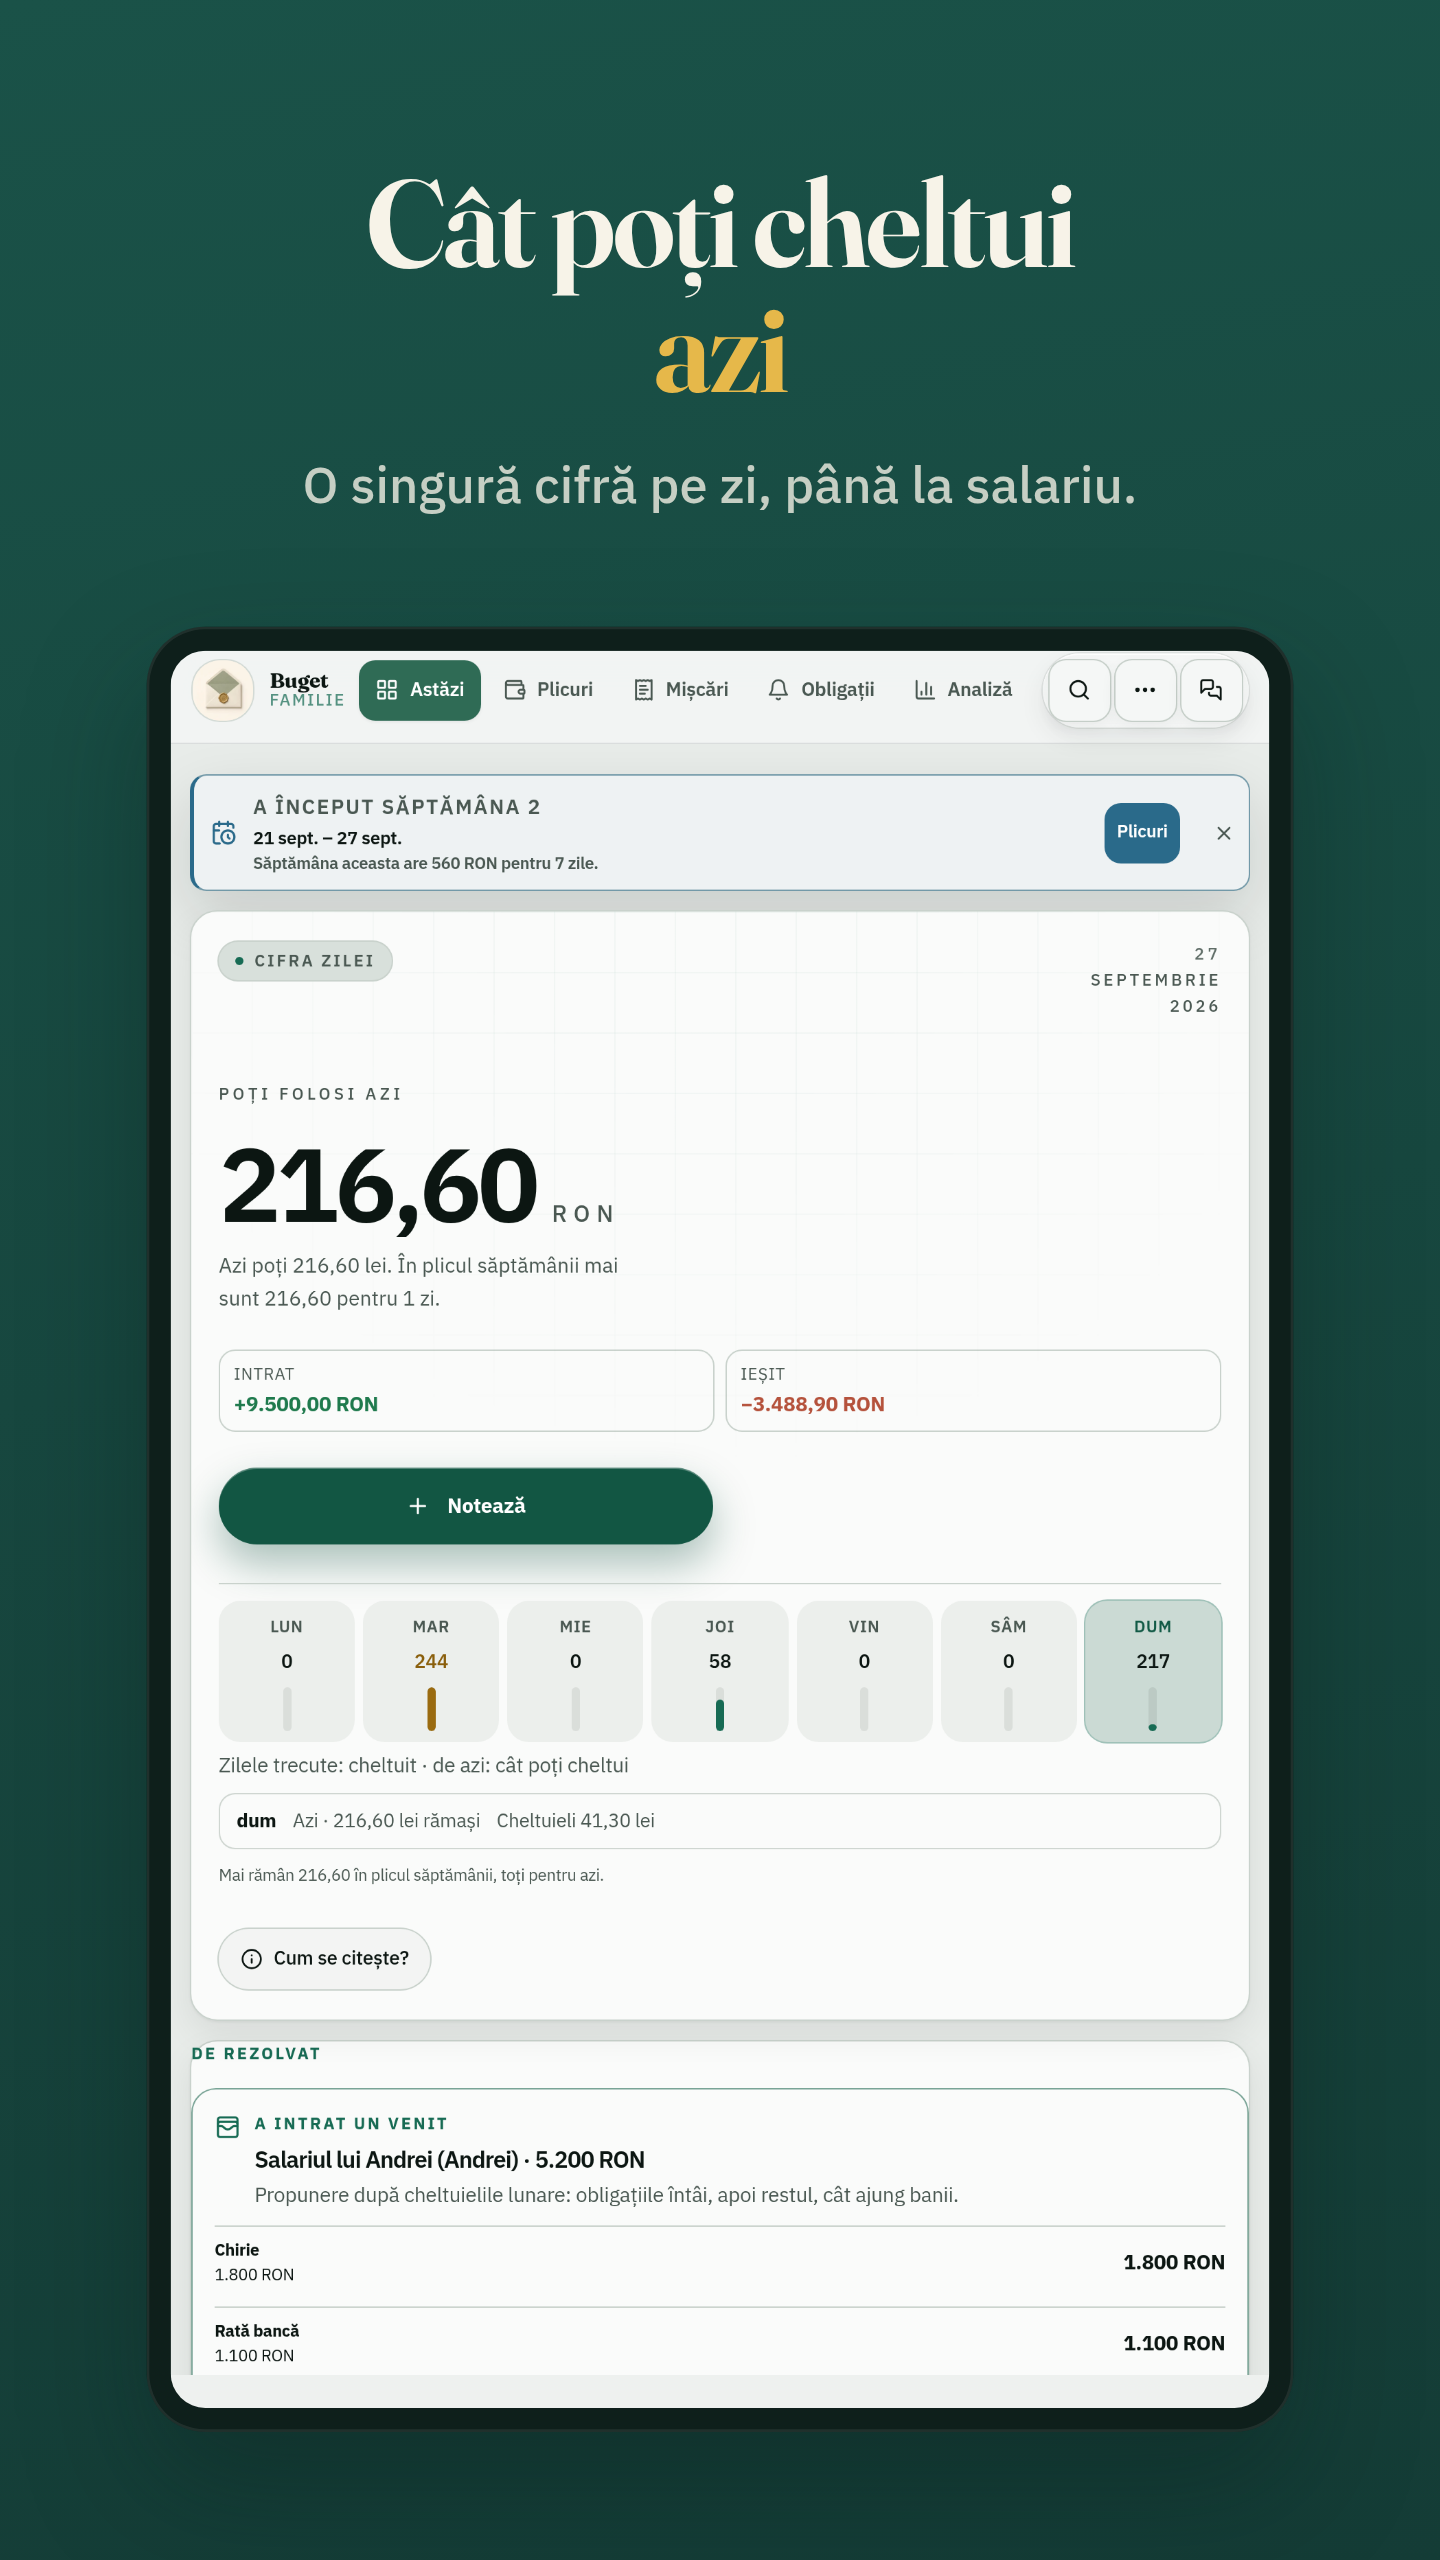
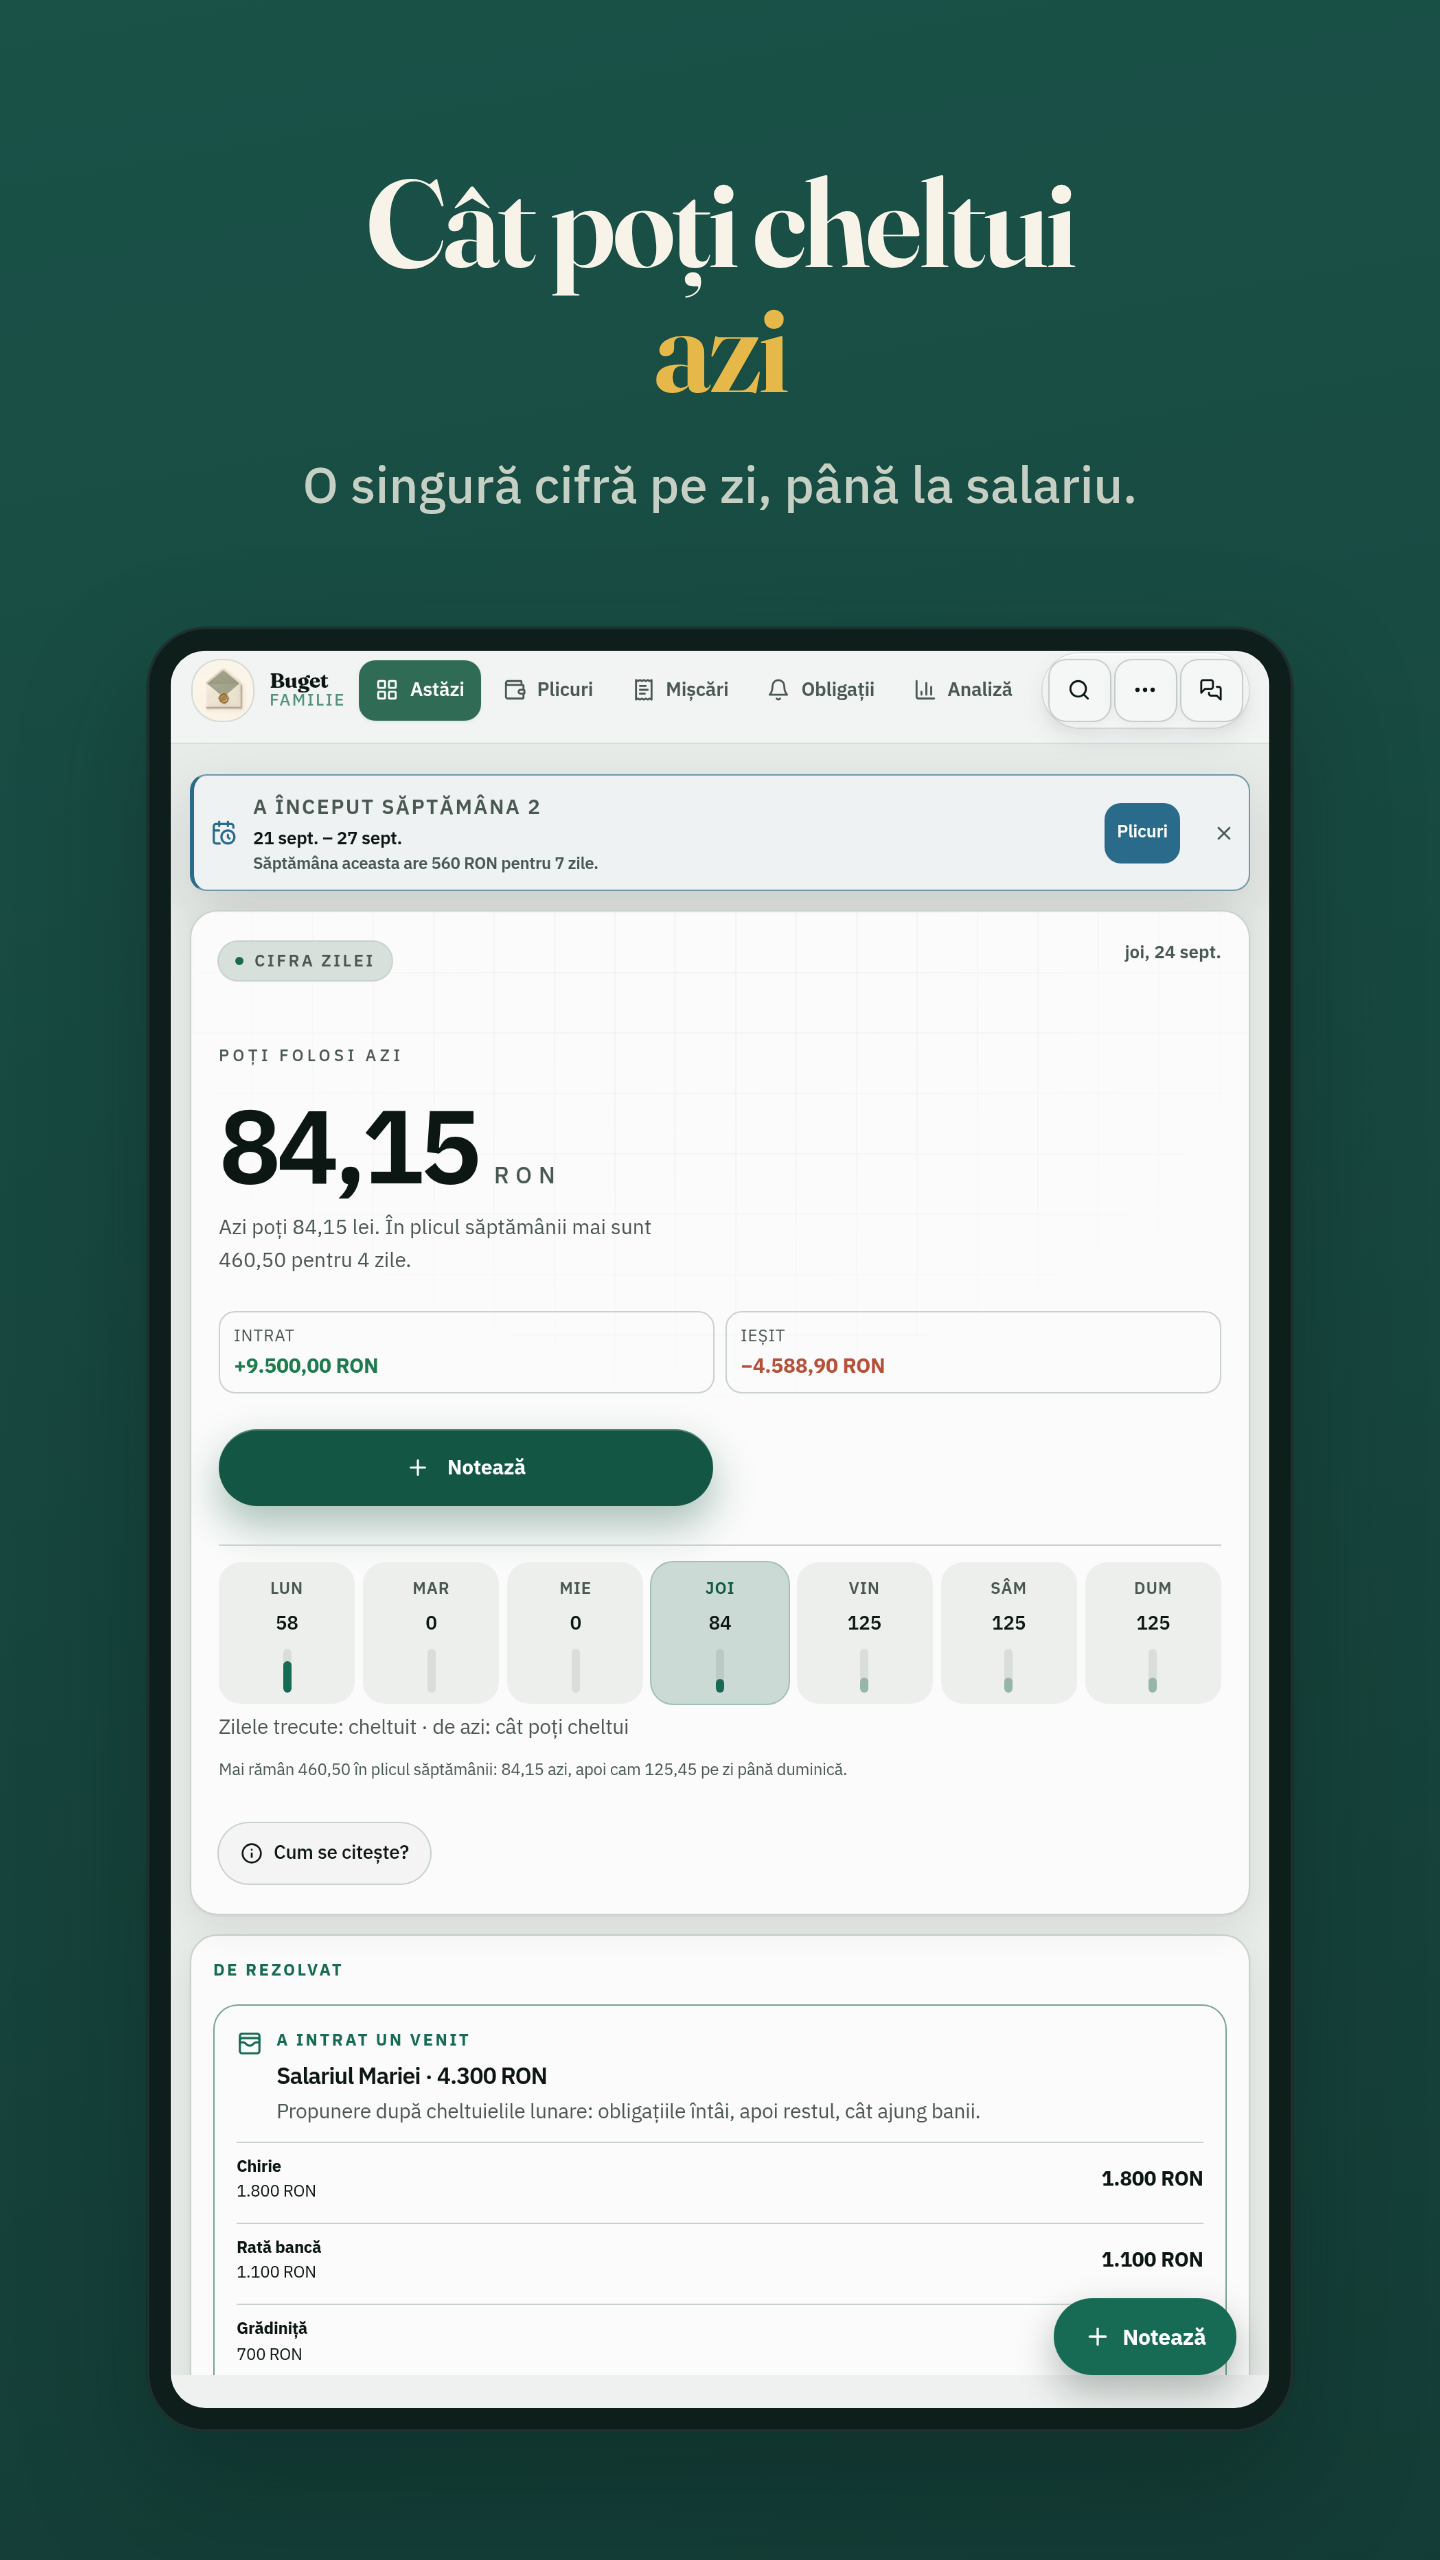
Capturi Play refăcute; fără nume repetat în „A intrat un venit”
Capturile nu se mai contrazic: salariile pe 15 și pe 22, planul aproape
tot repartizat, o zi obișnuită (joi, nu ultima zi a săptămânii), rata
plătită, nu întârziată, și „Notează” plutitor pe tabletă. Data pe
Astăzi pe un rând, în fontul aplicației.

Claude-Session: https://claude.ai/code/session_012nvvSBWT37UrmTh759jq6t

diff --git a/client/src/components/IncomeSplitCard.tsx b/client/src/components/IncomeSplitCard.tsx
@@ -2,6 +2,7 @@
  * Propunerea de repartizare pentru un salariu intrat: ce acoperă acum, ce rămâne pentru
  * salariul următor, cât e liber. Nimic nu se schimbă până la „Aplică repartizarea”.
  */
+import { foldRomanian } from "@/lib/finance-data";
 import "../monthly-needs.css";
 import { useMemo, useState } from "react";
 import { Check, WalletCards } from "lucide-react";
@@ -29,7 +30,7 @@ export function IncomeSplitCard({ data, incomeId, onChange, onDismiss }: { data:
         <WalletCards size={19} aria-hidden="true" />
         <div>
           <p className="bf-kicker">{t("A INTRAT UN VENIT")}</p>
-          <h3 id={`split-${incomeId}`}>{t("{title}{who} · {amount}", { title: split.income.title, who: member ? ` (${member})` : "", amount: money(split.income.amount) })}</h3>
+          <h3 id={`split-${incomeId}`}>{t("{title}{who} · {amount}", { title: split.income.title, who: member && !foldRomanian(split.income.title).includes(foldRomanian(member).slice(0, 4)) ? ` (${member})` : "", amount: money(split.income.amount) })}</h3>
           <p>{t("Propunere după cheltuielile lunare: obligațiile întâi, apoi restul, cât ajung banii.")}</p>
         </div>
       </header>

diff --git a/client/src/ledger-unify-2026.css b/client/src/ledger-unify-2026.css
@@ -598,7 +598,7 @@ html.theme-navy .os-shell .os-dock button.is-on {
 .bf-obligations-workspace details[open] > summary:not(:has(svg))::after { margin-bottom: -4px; transform: rotate(-135deg); }
 
 /* D13: data zilei pe un rând, cu litere normale. */
-html body .os-shell .os-hero-top .os-date.is-inline { display: inline-block; white-space: nowrap; color: var(--cf-muted); font: 600 13px/1.2 "IBM Plex Sans", system-ui, sans-serif; font-variant: normal; letter-spacing: 0; text-transform: none; }
+.os-hero-top .os-date-line { display: inline-block; white-space: nowrap; color: var(--cf-muted); font: 600 13px/1.2 "IBM Plex Sans", system-ui, sans-serif; font-variant: normal; letter-spacing: 0; text-transform: none; }
 
 /* Politica Play pentru AI: „Semnalează răspunsul” discret, sub fiecare răspuns al ghidului. */
 .ai-chat-report { align-self: flex-start; min-height: 32px; margin: 2px 0 0 6px; padding: 0 6px; border: 0; background: transparent; color: var(--cf-muted); font: 600 12px/1 "IBM Plex Sans", system-ui, sans-serif; text-decoration: underline; cursor: pointer; }

diff --git a/client/src/pages/TodayView.tsx b/client/src/pages/TodayView.tsx
@@ -340,7 +340,7 @@ export function TodayView({ data, onAdd, onEdit, onGo, onChange, onOpenReview, o
         <div className="os-hero-top">
           <span className="os-chip"><i /> {overPlan ? t("Plan de revizuit") : t("Cifra zilei")}</span>
           {/* D13: data pe un singur rând („dum., 27 sept.”), nu pe trei. */}
-          <time className="os-date is-inline" dateTime={todayIso}>{new Date(`${todayIso}T12:00:00`).toLocaleDateString(getLocale(), { weekday: "short", day: "numeric", month: "short" })}</time>
+          <time className="os-date-line" dateTime={todayIso}>{new Date(`${todayIso}T12:00:00`).toLocaleDateString(getLocale(), { weekday: "short", day: "numeric", month: "short" })}</time>
         </div>
         {fresh && planDeclared ? (
           <div className="os-start os-start-ready">
